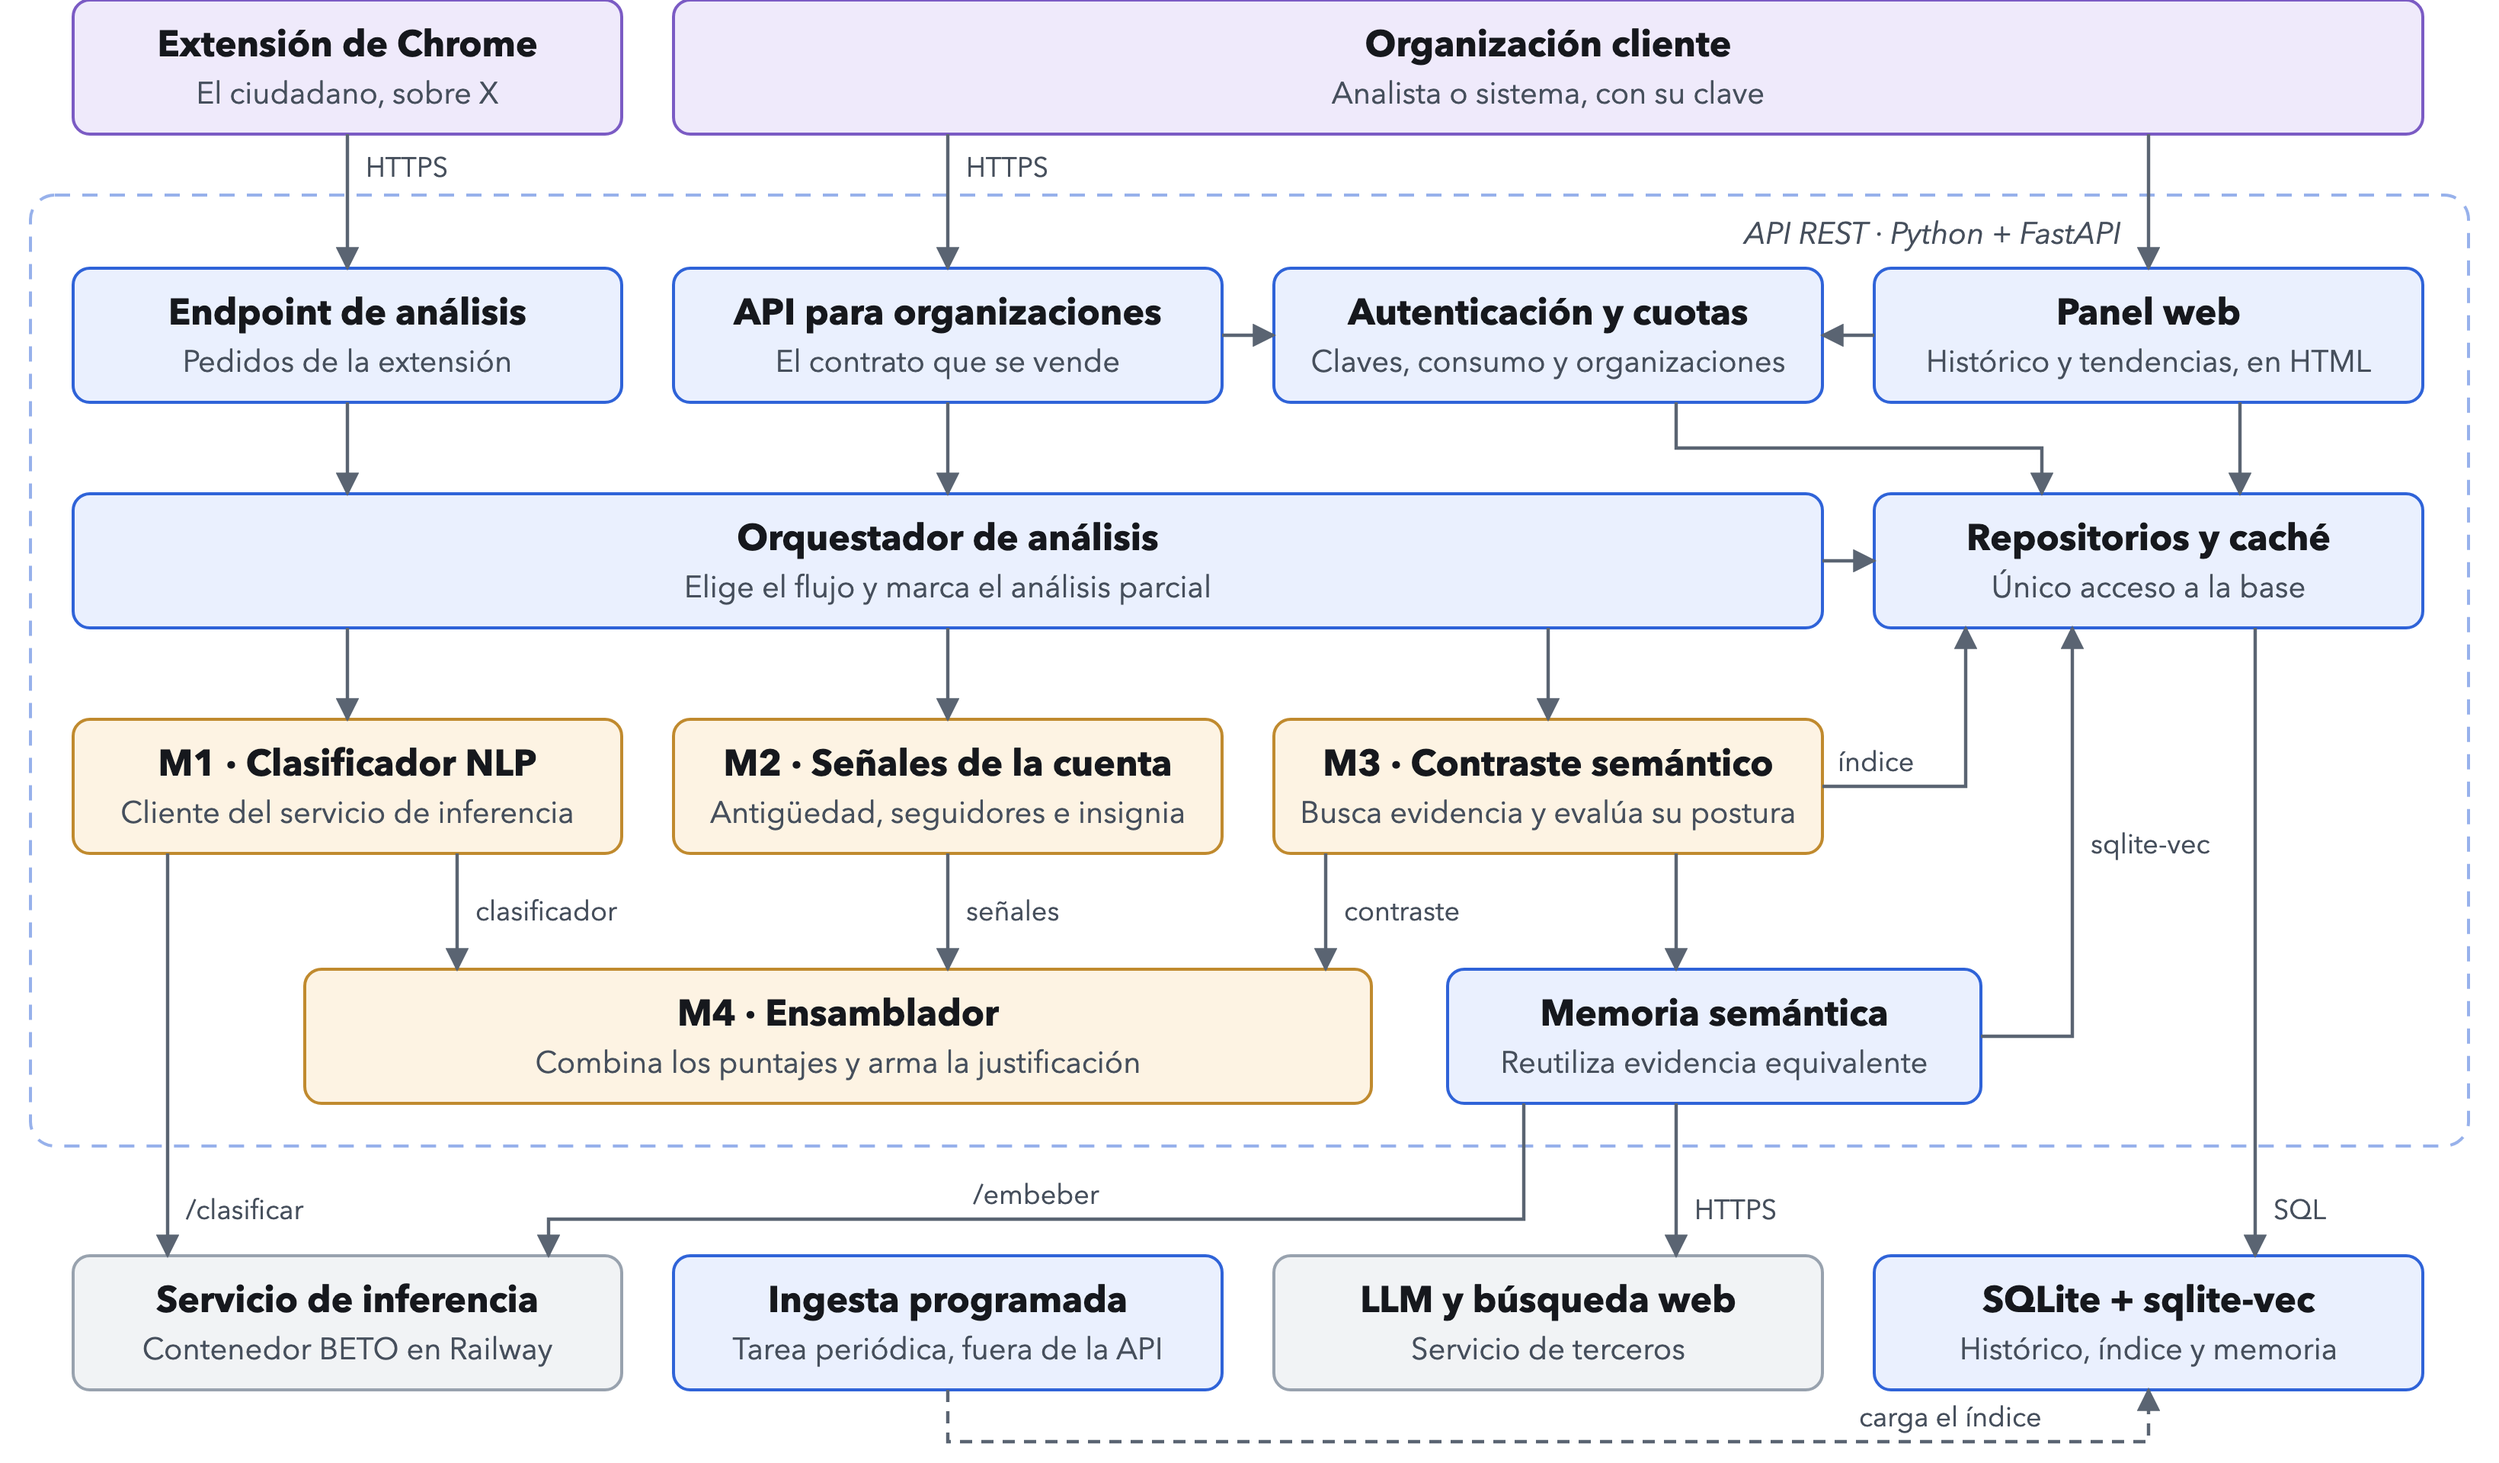
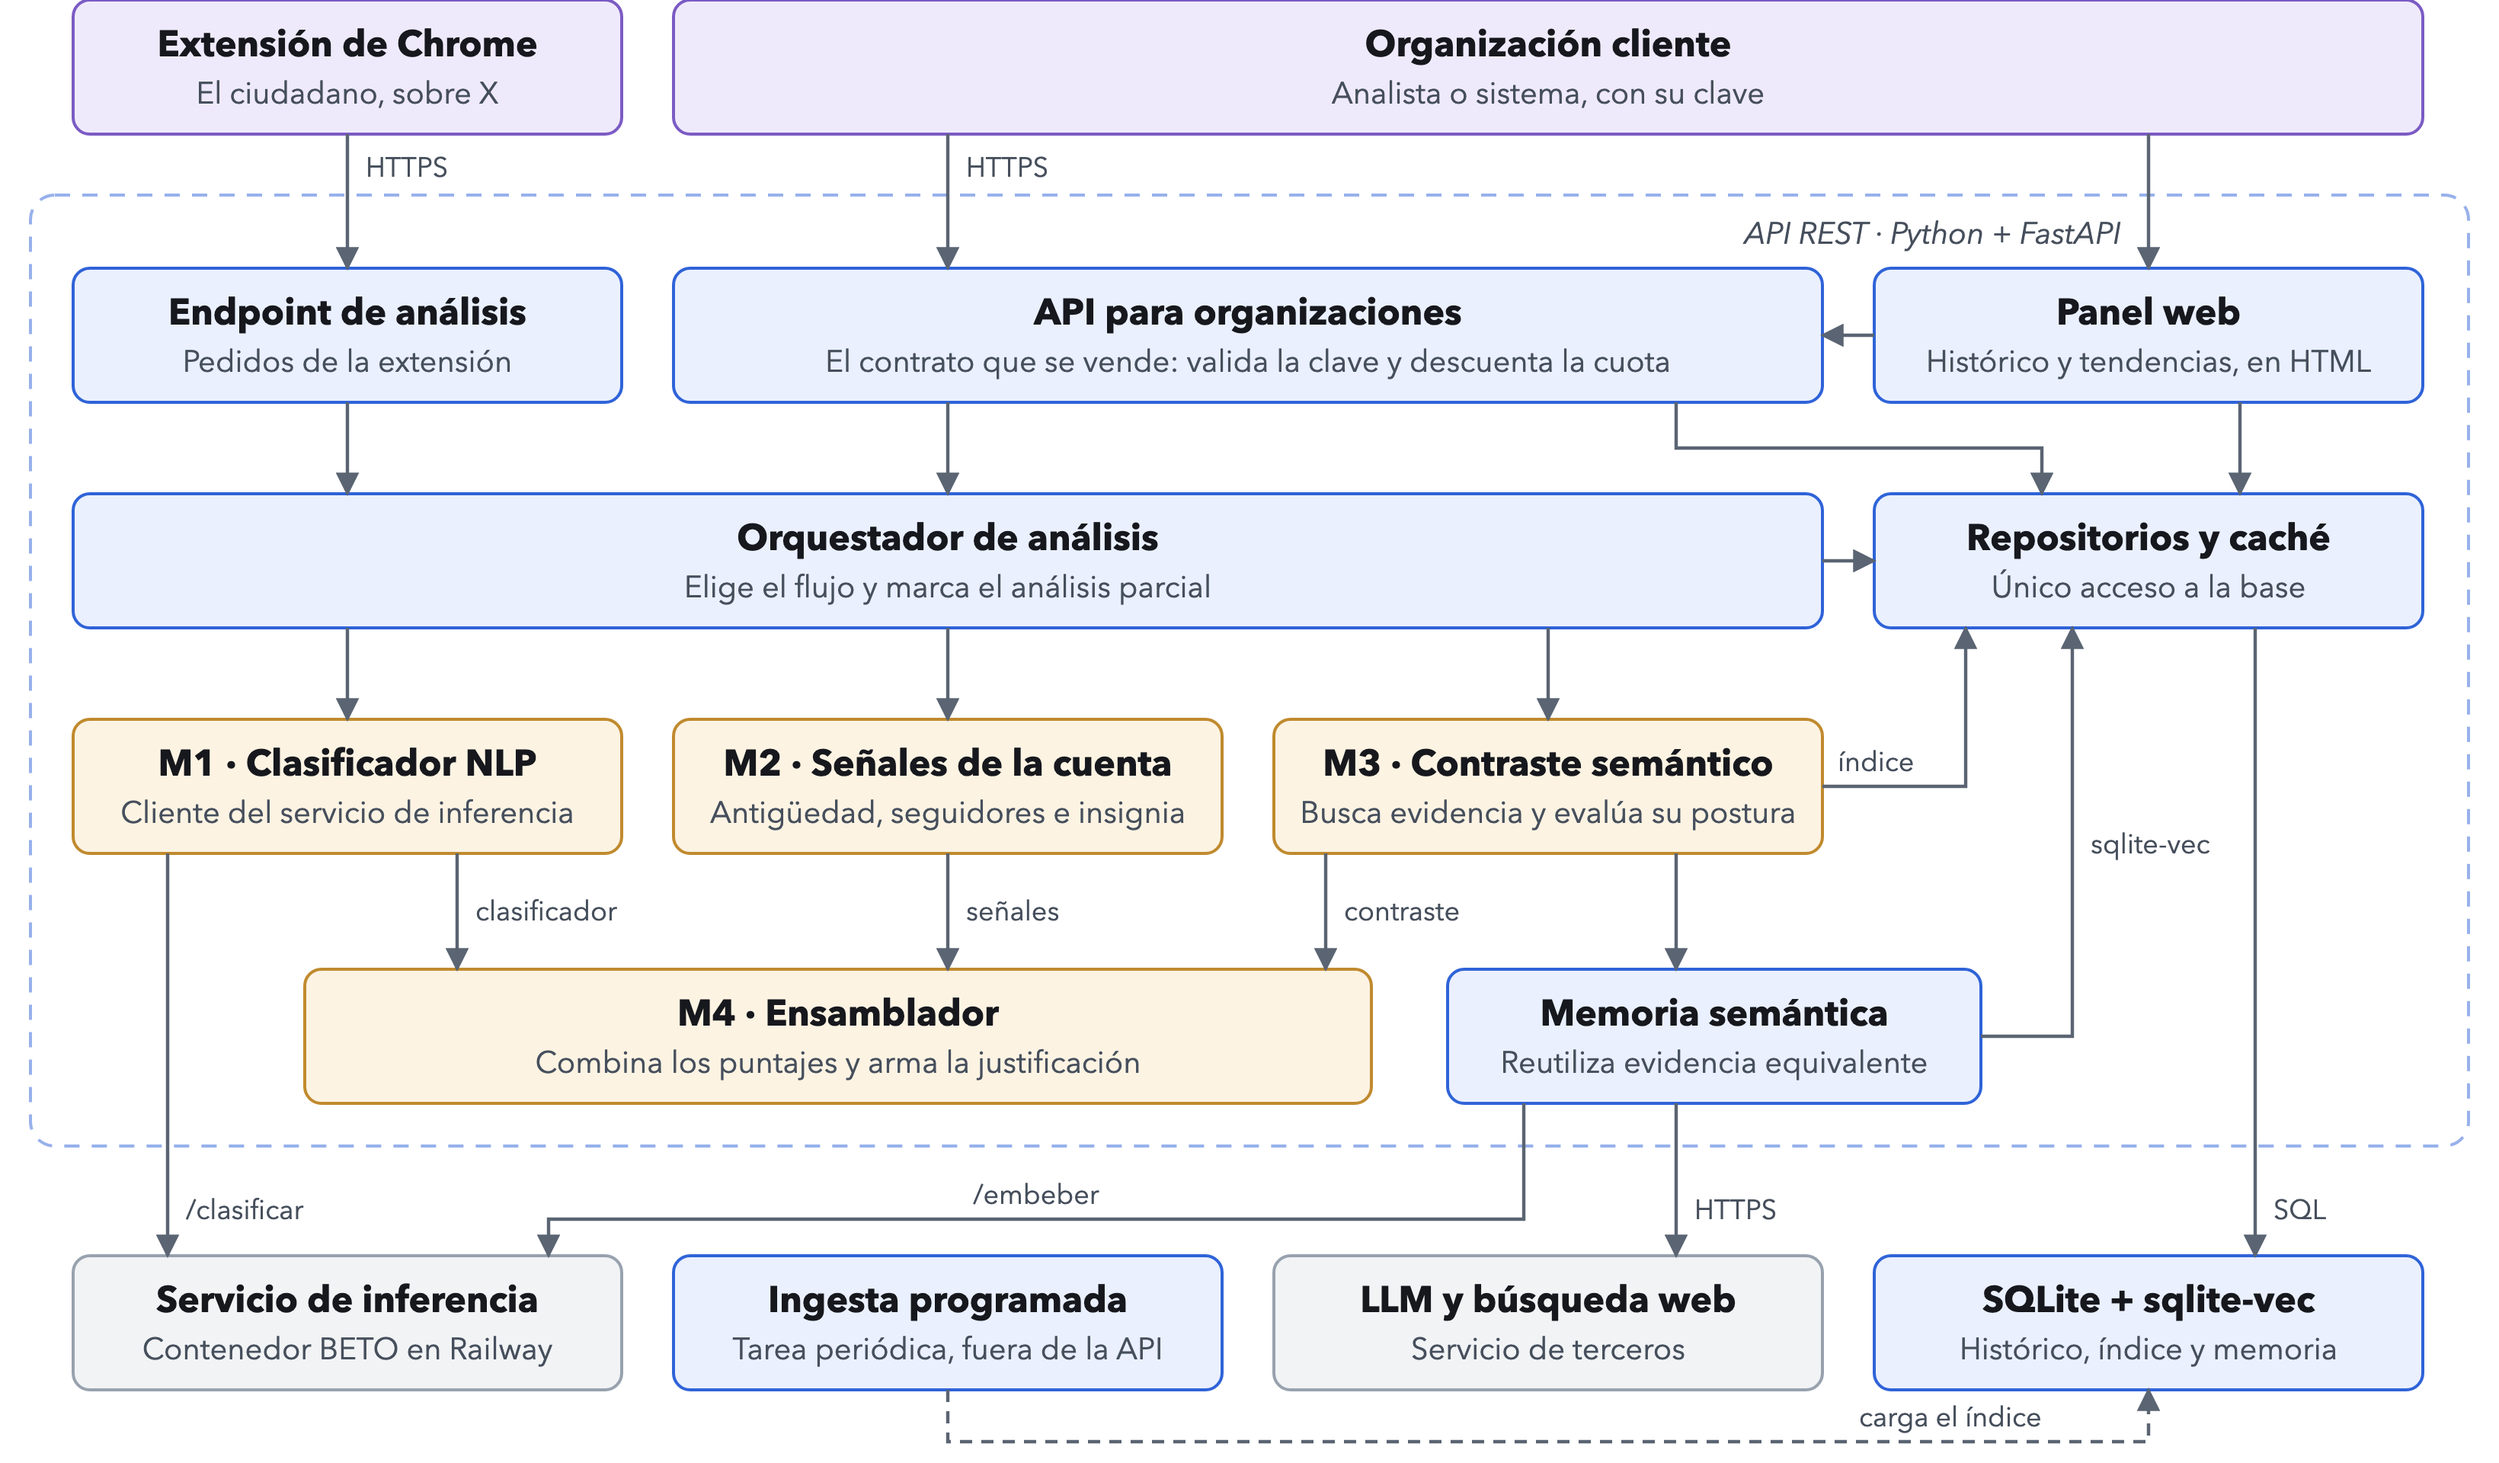
Unir autenticación y cuotas a la API para organizaciones en c4-componentes

Changed region(s): [[0.2799, 0.1875, 0.7152, 0.2812]]

diff --git a/documento/chapters/chapter04.tex b/documento/chapters/chapter04.tex
@@ -499,7 +499,7 @@ El tercer nivel, que presenta la Figura~\ref{fig:c4-componentes}, describe la or
 \end{figure}
 \end{landscape}
 
-La API expone dos puntos de entrada diferenciados y un componente de autenticación y cuotas que protege al segundo. Que se trate de dos interfaces separadas y no de una sola parametrizada responde a una decisión deliberada: el contrato que se comercializa es un producto con precio propio y no debería modificarse cuando cambia la extensión.
+La API expone dos puntos de entrada diferenciados, y el segundo valida la clave de la organización y descuenta su cuota antes de atender el pedido. Que se trate de dos interfaces separadas y no de una sola parametrizada responde a una decisión deliberada: el contrato que se comercializa es un producto con precio propio y no debería modificarse cuando cambia la extensión.
 
 El orquestador concentra la decisión de los dos flujos. Recibe el pedido, consulta el análisis vigente y, según el origen de la solicitud, ejecuta únicamente el primer módulo o los cuatro. Es además el componente que marca el resultado como parcial cuando un módulo falla, en lugar de permitir que el ensamblador promedie sobre datos ausentes.
 
